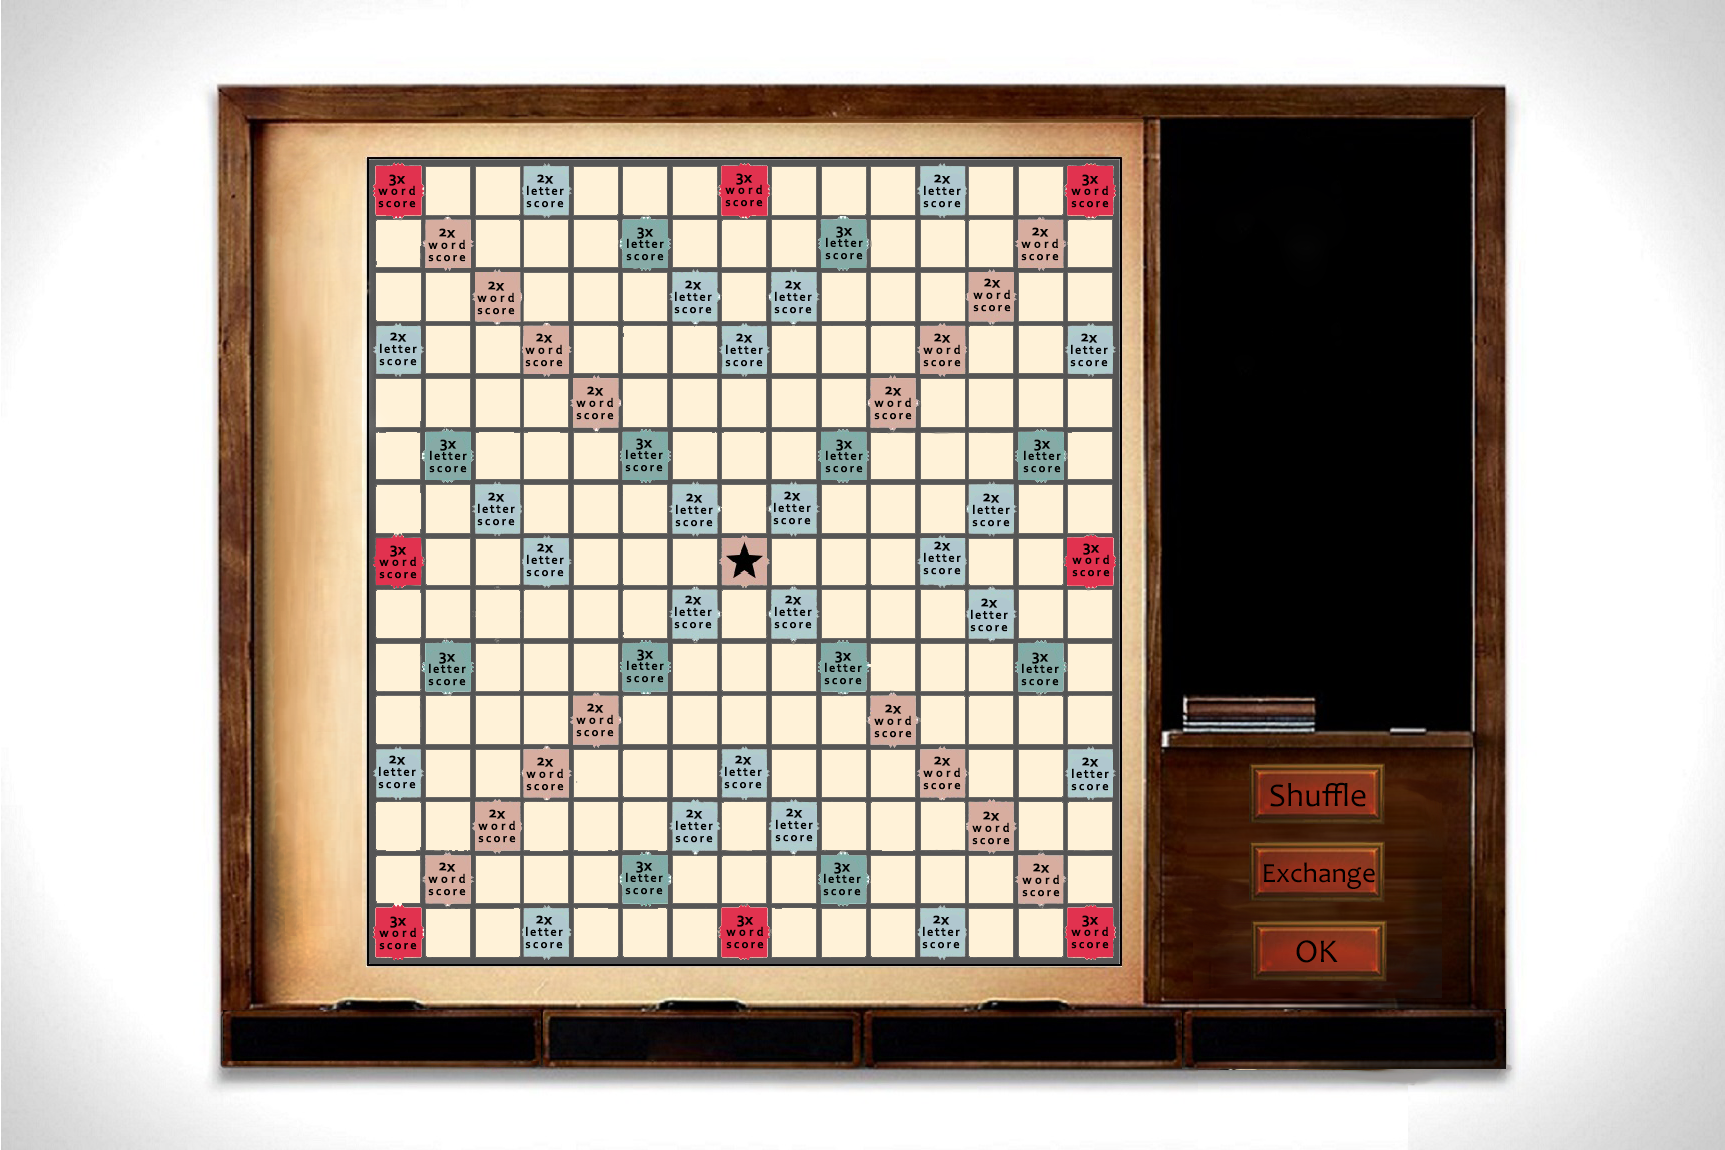
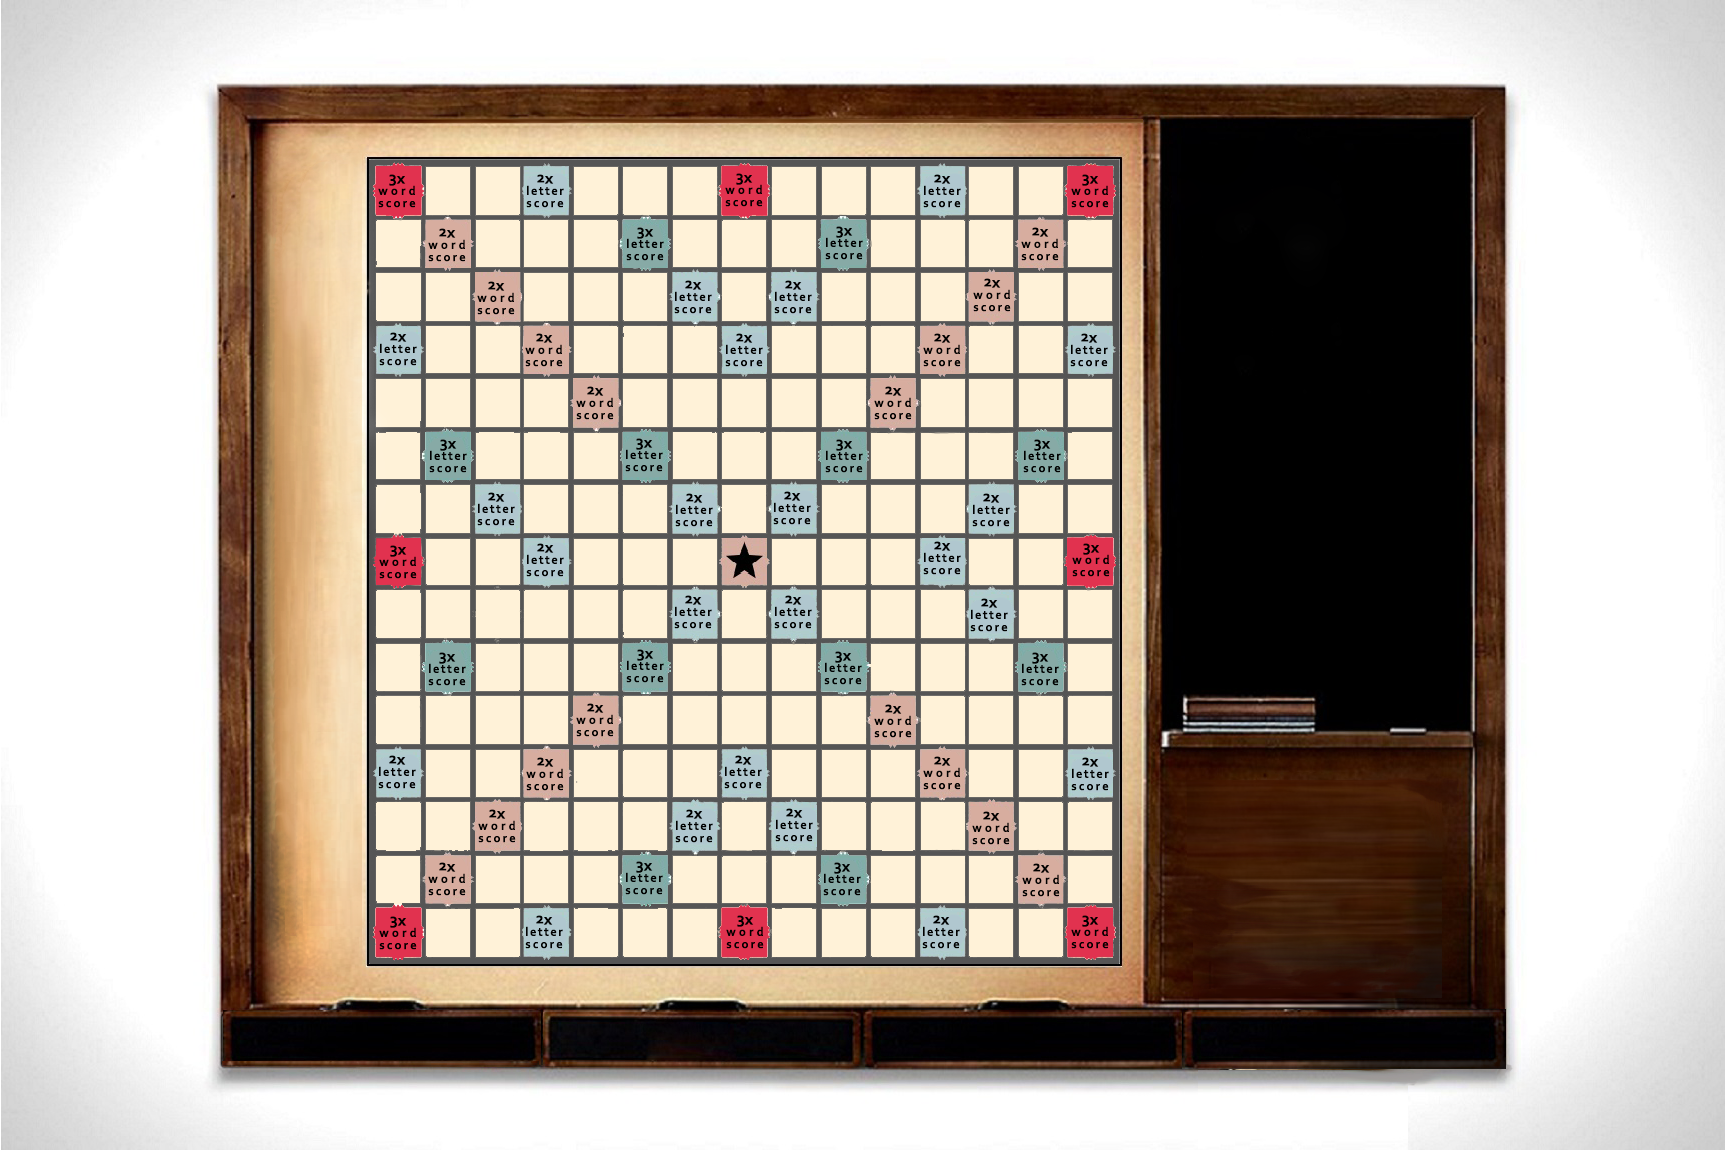
updting the menu

Changed region(s): [[0.7067, 0.6391, 0.8296, 0.8522]]

diff --git a/menu.js b/menu.js
@@ -1,50 +1,54 @@
 
-let Menu = function (app) {
-	this.path = 'assets/mode.jpg';
+let Menu = function (app,type) {
+	this.path;
     this.sprite;
     this.visible = true;
     this.clickable = true;
 	this.mouseClickPos;
     this.app = app; 
-
+	this.button1=null;
+	this.button2=null;
+	this.button3=null;
+	this.type=type;
 
     this.init(app);
 }
 
 Menu.prototype = {
     init: function(app){
+		if(this.type=='mode')
+			this.path = 'assets/mode_.png';
+		else if(this.type=='play')
+			this.path = 'assets/play_.png';
+		else 
+			this.path = 'assets/first_.png';
         // create a new Sprite from an image path
         this.sprite = PIXI.Sprite.fromImage(this.path);          
         app.stage.addChild(this.sprite);
-        this.sprite.interactive = this.clickable;
         this.sound = PIXI.sound.Sound.from('assets/tile-sound-effect.mp3');
 		this.sound.play();
         //this.sprite.hitArea = new PIXI.Rectangle(0, 0, 100, 100); //3ashan ados 3l le3ba bs
-		this.sprite.scale.set(0.53);
-        this.sprite.on('pointerdown', this.myonClick.bind(this)); // Pointers normalize touch and mouse
+		this.sprite.scale.set(1);
+		if(this.type=='first')
+		{
+			this.button1=new Button(this.app,'human',1,'first');
+			this.button2=new Button(this.app,'ai',2,'first');
+		}
+		else if(this.type=='mode')
+		{
+			this.button1=new Button(this.app,'trainer',1,'mode');
+			this.button2=new Button(this.app,'ai',2,'mode');
+		}
+		else
+		{
+			this.button1=new Button(this.app,'play',1,'play');
+			this.button2=new Button(this.app,'score',2,'play');
+			this.button3=new Button(this.app,'quit',3,'play');
+			
+		}
+		
 		
 
     },
-    myonClick: function(e){
-    	e.data.local = {
-    		x: e.data.global.x - this.sprite.position.x,
-    		y: e.data.global.y - this.sprite.position.y
-    	}
-    	this.mouseClickPos = e.data.local;
-		console.log(this.mouseClickPos);
-    	if (this.selectedTile && !this.moving){
-    		//logic of movement here ..
-			this._animationFunction = this.moveHandtoTile.bind(this)
-			this.app.ticker.add(this._animationFunction);
-			this.animationStartingPos = {x:this.hand.container.position.x, y:this.hand.container.position.y};
-            this.selectedTile.animationStartingPos = {x:this.selectedTile.container.position.x, y:this.selectedTile.container.position.y};
-    		this.animationT1 = 0;
-    		this.animationT2 = 0;
-            this.animationT3 = 0;
-            console.log(this.selectedTile.animationStartingPos)
-    		this.randomDir = Math.random() >= 0.5;
-            this.moving = true;
-    	}
-    }
-    
+   
 };

diff --git a/button.js b/button.js
@@ -1,0 +1,93 @@
+
+let Button = function (app,name,pos,mode) {
+	this.path = 'assets/'+name+'.png';
+    this.sprite;
+    this.visible = true;
+    this.clickable = true;
+	this.mouseClickPos;
+    this.app = app; 
+	this.name=name;
+	this.pos=pos;
+	this.mode=mode; //mmkn yb2a play/mode/first/board 
+    this.init(app);
+}
+
+Button.prototype = {
+    init: function(app){
+        // create a new Sprite from an image path
+        this.sprite = PIXI.Sprite.fromImage(this.path);          
+        app.stage.addChild(this.sprite);
+        this.sprite.interactive = this.clickable;
+        this.sound = PIXI.sound.Sound.from('assets/tile-sound-effect.mp3');
+		this.sound.play();
+        //this.sprite.hitArea = new PIXI.Rectangle(0, 0, 100, 100); //3ashan ados 3l le3ba bs
+		this.sprite.scale.set(0.5);
+        this.sprite.on('pointerdown', this.myonClick.bind(this)); // Pointers normalize touch and mouse
+		if (this.mode=='play')
+		{
+			if(this.pos==1)
+			{
+				this.sprite.x=455;
+				this.sprite.y=200;
+			}
+			else if (this.pos==2)
+			{
+				this.sprite.x=555;
+				this.sprite.y=350;
+			}
+			else
+			{
+				this.sprite.x=555;
+				this.sprite.y=450;
+			}
+			
+		}
+		else
+		{
+			if(this.pos==1)
+			{
+				this.sprite.x=500;
+				this.sprite.y=260;
+			}
+			else
+			{
+				this.sprite.x=500;
+				this.sprite.y=410;
+			}
+		}
+
+    },
+    myonClick: function(e){
+    	e.data.local = {
+    		x: e.data.global.x - this.sprite.position.x,
+    		y: e.data.global.y - this.sprite.position.y
+    	}
+    	this.mouseClickPos = e.data.local;
+		console.log(this.mouseClickPos);
+		//action of coosing the first player
+    	if(this.mode=='first')
+		{
+			if(this.name=='human')
+				console.log("first:human");
+			else if (this.name=='ai')
+				console.log("first:AI");
+		}
+		else if(this.mode=='play')
+		{
+			if(this.name=='play')
+				console.log("play pressed");
+			else if (this.name=='score')
+				console.log("score pressed");
+			else if (this.name=='quit')
+				console.log("quit pressed");
+		}
+		else if(this.mode=='mode')
+		{
+			if(this.name=='trainer')
+				console.log("mode:trainer");
+			else if (this.name=='ai')
+				console.log("mode:AI");
+		}
+    }
+    
+};

diff --git a/graphics.js b/graphics.js
@@ -8,7 +8,7 @@ let Graphics = function() {
 
 	//initializing PIXI
 	console.log("Initializing graphics PIXI object")
-    this.app = new PIXI.Application(1024, 680, {backgroundColor : 0x16D6EB, antialias: true, forceFXAA: true});
+    this.app = new PIXI.Application(1355, 635, {backgroundColor : 0x16D6EB, antialias: true, forceFXAA: true});
     document.body.appendChild(this.app.view);
     //PIXI.settings.SCALE_MODE = PIXI.SCALE_MODES.NEAREST; // Scale mode for all textures, will retain pixelation, da 7lw lel pixel art bs bye3ml alias fl sewar el 3adia
     PIXI.settings.RENDER_OPTIONS.antialias = true;

diff --git a/board.js b/board.js
@@ -47,10 +47,7 @@ Board.prototype = {
         //     |                                  |
         // (225, 575) ----------------------- (670, 575)
 		console.log(x,y);
-		if ( !(x>753  && x<827   && y>555 && y<584)&&
-		!(x>753  && x<826  && y>504 && y<536)&& 
-		!(x>753 && x<827 && y>460 && y<490 )&&
-		( x < 225 || x > 670 || y < 100 || y > 575))
+		if ( x < 225 || x > 670 || y < 100 || y > 575)
             console.log("Click out of board bounds");
         else 
 		{

diff --git a/test.js b/test.js
@@ -15,7 +15,7 @@ window.onload = function(){
 	//GameplayManager.get().aiTurn()
     //create the gameManager when the game starts , not in the menu
     let gameManager = new GameplayManager();
-	
+	//let menu= new Menu(gameManager.app,'first');
 	//let reward=new Reward(gameManager.app);
 	let tiles=gameManager.generateUsersTiles(7);
 	//let gen=new GenerateTiles(gameManager.app,this.board,tiles);

diff --git a/index.html b/index.html
@@ -10,6 +10,7 @@
     <script src="eventDispatcher.js"></script>
     <script src="board.js"></script>
     <script src="menu.js"></script>
+    <script src="button.js"></script>
     <script src="tile.js"></script>
     <script src="hand.js"></script>
 	<script src="bag.js"></script>
